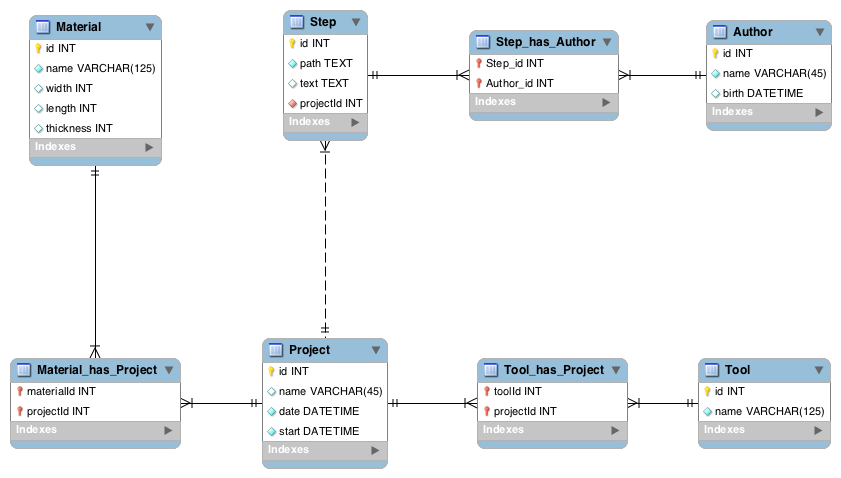
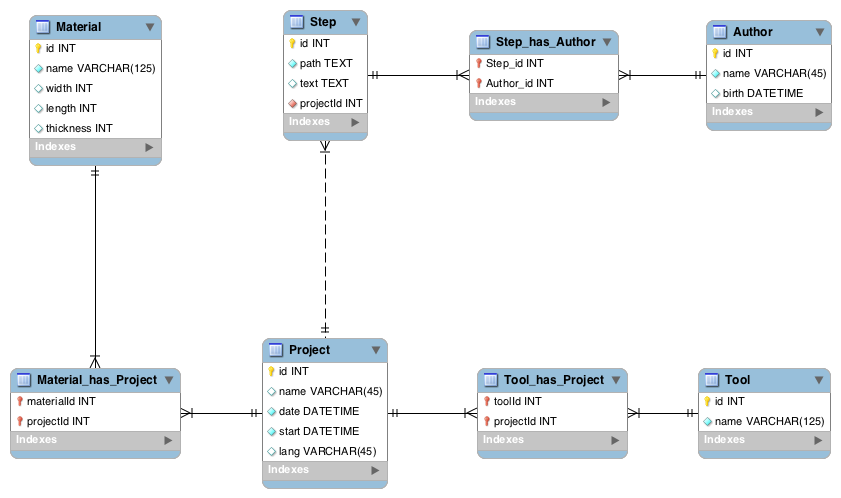
Add language

diff --git a/interface/client/app.js b/interface/client/app.js
@@ -66,7 +66,7 @@ io.on('connection', function (socket) {
     var serialport = require("serialport");
     var SerialPort = serialport.SerialPort;
 
-    var sp = new SerialPort("/dev/tty.usbserial-A600eo9b", {
+    var sp = new SerialPort("/dev/tty.usbmodem1421", {
         parser: serialport.parsers.readline("\n"),
         baudrate: 9600
     });
@@ -91,7 +91,7 @@ io.on('connection', function (socket) {
                     var myUser = data.substr(3);
                     html = jade.renderFile('views/project.jade', {user:myUser});
                     break;
-                case "btn":
+                case "prj":
                     var newInstruction = data.substr(3,3);
                     if(newInstruction == "can"){
                         html = jade.renderFile('views/login.jade');

diff --git a/interface/server/classes/Project.class.php b/interface/server/classes/Project.class.php
@@ -48,6 +48,7 @@ class Project {
     public $id;
     public $date;           // Date is the date of the last change
     public $name;
+    public $lang;
 
     public $steps;
 
